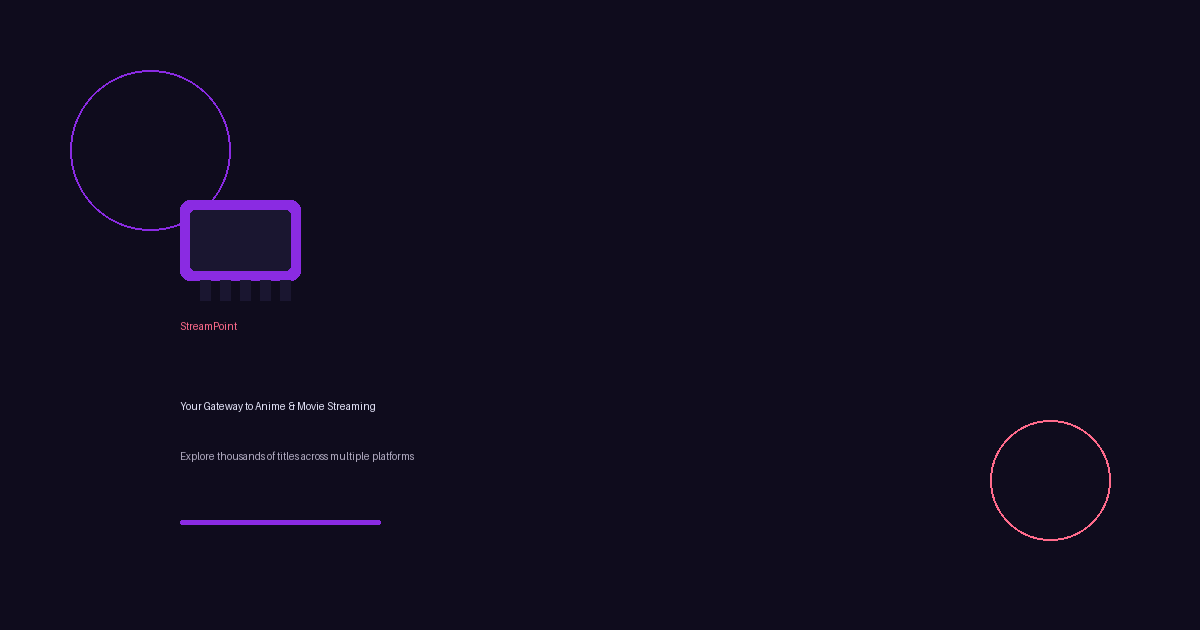
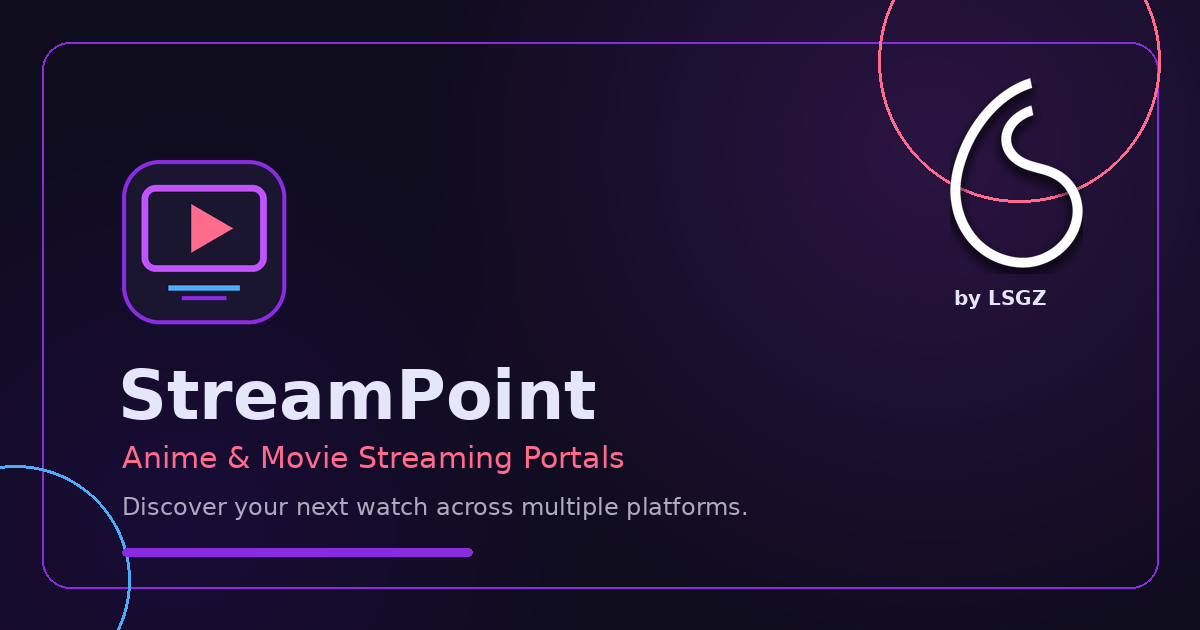
Add StreamPoint branding and social metadata

diff --git a/index.html b/index.html
@@ -4,6 +4,20 @@
     <meta charset="UTF-8">
     <meta name="viewport" content="width=device-width, initial-scale=1.0">
     <title>StreamPoint - Anime & Movie Streaming Portals</title>
+    <meta name="description" content="Discover anime and movie streaming portals in one place with StreamPoint.">
+    <meta name="theme-color" content="#0f0c1d">
+    <link rel="icon" type="image/png" sizes="192x192" href="favicon.png">
+    <link rel="apple-touch-icon" href="favicon.png">
+    <meta property="og:type" content="website">
+    <meta property="og:title" content="StreamPoint - Anime & Movie Streaming Portals">
+    <meta property="og:description" content="Discover your next watch across multiple streaming platforms.">
+    <meta property="og:image" content="og-image.png">
+    <meta property="og:image:width" content="1200">
+    <meta property="og:image:height" content="630">
+    <meta name="twitter:card" content="summary_large_image">
+    <meta name="twitter:title" content="StreamPoint - Anime & Movie Streaming Portals">
+    <meta name="twitter:description" content="Discover your next watch across multiple streaming platforms.">
+    <meta name="twitter:image" content="og-image.png">
     <link rel="stylesheet" href="https://cdnjs.cloudflare.com/ajax/libs/font-awesome/6.4.0/css/all.min.css">
     <style>
         * {
@@ -86,9 +100,11 @@
             margin-bottom: 15px;
         }
 
-        .logo i {
-            font-size: 2.8rem;
-            color: var(--primary);
+        .stream-point-mark {
+            width: 52px;
+            height: 52px;
+            border-radius: 14px;
+            box-shadow: 0 8px 24px rgba(138, 43, 226, 0.28);
         }
 
         h1 {
@@ -696,7 +712,7 @@
                 <img src="lsgz-logo.png" alt="LSGZ" class="lsgz-brand">
             </a>
             <div class="logo">
-                <i class="fas fa-film"></i>
+                <img src="stream-point-logo.png" alt="" class="stream-point-mark">
                 <h1>StreamPoint</h1>
             </div>
             <p class="subtitle">Your gateway to the best anime and movie streaming websites. Explore thousands of titles across multiple platforms. Always use caution and protection when visiting third-party sites.</p>
